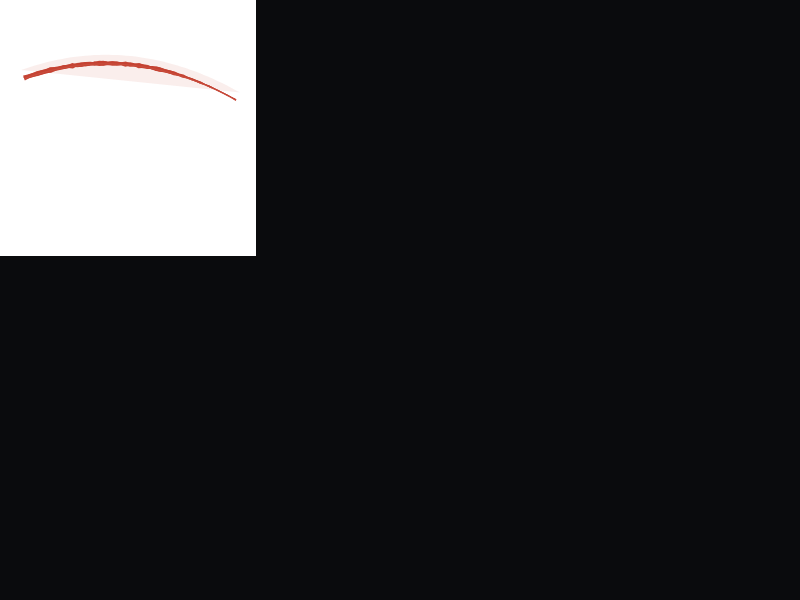
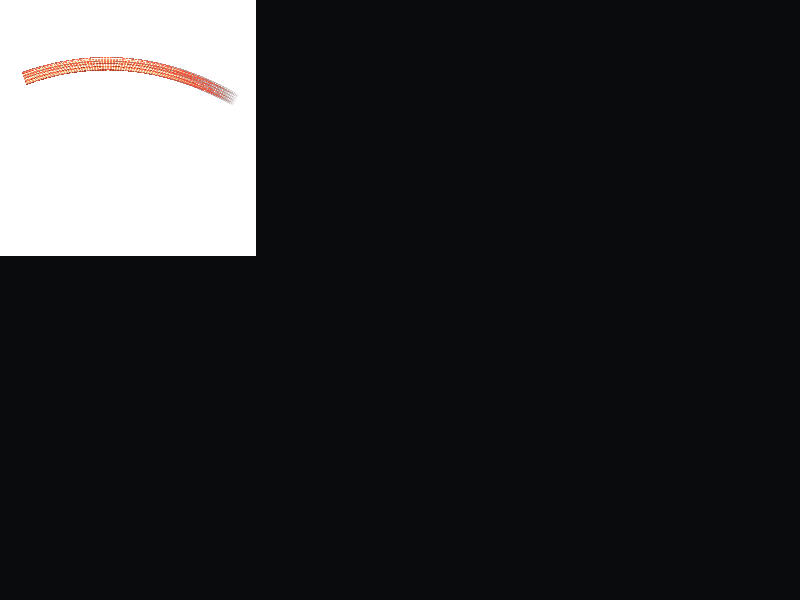
fix(oil): make the impasto path actually render strokes
The dli/paint-style oil backend shipped in 88ec93c never executed in
production — every stroke silently fell back to the bristle renderer,
and even the probe stroke deposited a 104px thread instead of a full
brush mark. Four defects, all reproduced by execution before fixing:

- renderOilImpasto referenced `alpha` outside its scope (ReferenceError
  swallowed by try/catch -> {ok:false} on every call); stroke alpha now
  resolves from options/shape/params with clamping, and the bristle RNG
  comes from the caller's seeded rngFor.
- depositStroke stacked all 12 bristles on the centerline: br.center
  was never used, so a 212x13px stroke painted a ~1px thread. Each
  bristle now owns its lateral slice of the cross-section.
- Fixed 49-sample bezier walk left ~4.4px gaps -> dashed strokes. The
  path is now densified by arc length to ~0.8px stamp spacing.
- Shading ran a full-canvas Sobel/normals/shade + putImageData per
  stroke (40k strokes => 100% CPU, browser crash). Shading is now
  cropped to the stroke's bbox; coverage lives in the pigment alpha
  channel (with max(RGB) fallback) so dark paint stays opaque and the
  composite never erases earlier strokes.

Verification: oil-impasto 24/0, engine 177/0, full 21-suite battery
exit=0, brush-maker + brush-path probes PASS, single-stroke probe shows
a continuous bristled band with dry taper, and the full frog render
through the real app path (40,064 strokes, liveMeanLum 174, inkPct 54)
now produces a coherent oil painting.

Changed region(s): [[0.0312, 0.09, 0.3125, 0.18]]

diff --git a/js/engine/oil-impasto.js b/js/engine/oil-impasto.js
@@ -19,6 +19,10 @@
 
 import { rngFor, hexRgb, rgbToHex } from '../styles/base.js';
 
+// Module-level scratch canvas reused across strokes (see renderOilImpasto).
+let _scratchCanvas = null;
+let _scratchCtx = null;
+
 /**
  * Deterministic parameters (matching dli/paint paint.js constants)
  */
@@ -178,20 +182,32 @@ export function shadePigment(pigment, normals, w, h, opts = {}) {
       
       const specular = (D * G * F) * specularScale;
       
-      // Get pigment color (0..255)
+      // Coverage of this pixel: the deposit's own coverage channel (pigment
+      // alpha, written by depositStroke) OR the max RGB channel — max() of
+      // both so legacy callers that fill RGB only still composite correctly,
+      // and near-black paint (max(RGB) ≈ 0) stays opaque via its coverage.
+      const cov = Math.max(pigment[pi + 3], pigment[pi], pigment[pi + 1], pigment[pi + 2]);
+      if (cov === 0) {
+        // No paint here — this pixel is NOT part of the stroke and must stay
+        // fully transparent, or the opaque offscreen rect erases every
+        // previously painted stroke when composited.
+        out[pi + 3] = 0;
+        continue;
+      }
+
       const r = pigment[pi] / 255;
       const g = pigment[pi + 1] / 255;
       const b = pigment[pi + 2] / 255;
-      
+
       // Final color
       const fr = Math.min(1, r * diffuse + specular);
       const fg = Math.min(1, g * diffuse + specular);
       const fb = Math.min(1, b * diffuse + specular);
-      
+
       out[pi] = Math.round(fr * 255);
       out[pi + 1] = Math.round(fg * 255);
       out[pi + 2] = Math.round(fb * 255);
-      out[pi + 3] = 255;
+      out[pi + 3] = cov;
     }
   }
   
@@ -251,17 +267,40 @@ export function depositStroke(surface, shape, R, opts = {}) {
   const progress = opts.progress !== undefined ? opts.progress : 1;
   const alpha = shape.alpha ?? a[10] ?? opts.alpha ?? 1;
 
-  // Sample points along the quadratic bezier, only up to `progress`
+  // Sample points along the quadratic bezier, only up to `progress`.
+  // Coarse pass first (49 points), then DENSIFY by arc length so stamp
+  // spacing is ~0.8px — a fixed 49-sample walk left ~4.4px gaps that rendered
+  // every stroke as a dashed string of dots.
   const P = [];
-  const N = 48;
-  const maxS = Math.max(0, Math.min(1, progress));
-  for (let i = 0; i <= N; i++) {
-    const s = (i / N) * maxS;
-    const v = 1 - s;
-    P.push([
-      v * v * a[0] + 2 * v * s * a[2] + s * s * a[4],
-      v * v * a[1] + 2 * v * s * a[3] + s * s * a[5]
-    ]);
+  {
+    const N = 48;
+    const maxS = Math.max(0, Math.min(1, progress));
+    const coarse = [];
+    for (let i = 0; i <= N; i++) {
+      const s = (i / N) * maxS;
+      const v = 1 - s;
+      coarse.push([
+        v * v * a[0] + 2 * v * s * a[2] + s * s * a[4],
+        v * v * a[1] + 2 * v * s * a[3] + s * s * a[5]
+      ]);
+    }
+    // Total polyline length → per-segment subdivision count.
+    let total = 0;
+    for (let i = 1; i < coarse.length; i++) {
+      total += Math.hypot(coarse[i][0] - coarse[i - 1][0], coarse[i][1] - coarse[i - 1][1]);
+    }
+    const STEP = 0.8; // px between stamps
+    P.push(coarse[0]);
+    for (let i = 1; i < coarse.length; i++) {
+      const [ax, ay] = coarse[i - 1];
+      const [bx, by] = coarse[i];
+      const seg = Math.hypot(bx - ax, by - ay);
+      const n = Math.max(1, Math.round(seg / STEP));
+      for (let k = 1; k <= n; k++) {
+        P.push([ax + (bx - ax) * k / n, ay + (by - ay) * k / n]);
+      }
+    }
+    void total;
   }
   
   // Bristle colour endpoints must be hex strings ('#rrggbb'); params may
@@ -272,10 +311,13 @@ export function depositStroke(surface, shape, R, opts = {}) {
   // Create bristle profile
   const bristles = createBristleProfile(strokeW / 2, R);
   
-  // For each bristle, deposit along the path
+  // For each bristle, deposit along the path. Each bristle occupies its own
+  // lateral SLICE of the brush cross-section (br.center spans 0..1 across the
+  // stroke width) — without this spread every bristle stacks on the
+  // centerline and the "stroke" deposits as a 1px thread (measured: 104px
+  // footprint for a 212×13px stroke).
   for (const br of bristles) {
-    const brW = strokeW * (br.hi - br.lo);
-    const halfBrW = brW / 2;
+    const brW = Math.max(0.8, strokeW * (br.hi - br.lo));
     
     for (let j = 0; j < P.length; j++) {
       const s = j / Math.max(1, P.length - 1);
@@ -297,14 +339,16 @@ export function depositStroke(surface, shape, R, opts = {}) {
         ? Math.pow(1 - (s - dryEnd) / (1 - dryEnd), dryTaper)
         : 1;
       
-      // Bristle-specific width with variation
-      const hw = halfBrW * Math.max(0.3, dryFactor) * br.heightMul;
+      // Lateral centre of THIS bristle across the brush (px), plus its
+      // per-bristle jitter; the bristle's own width tapers as it runs dry.
+      const centreOffset = (br.center - 0.5) * strokeW + br.offset * brW;
+      const liveW = Math.max(0.4, brW * Math.max(0.3, dryFactor));
       
       // Deposit along the bristle width (multiple samples across)
-      const samplesAcross = Math.max(3, Math.ceil(brW / 2));
+      const samplesAcross = Math.max(2, Math.ceil(liveW / 1.2));
       for (let k = 0; k < samplesAcross; k++) {
         const t = (k + 0.5) / samplesAcross;
-        const offset = (t - 0.5) * 2 * hw + br.offset * hw;
+        const offset = centreOffset + (t - 0.5) * liveW;
         
         const ix = Math.round(px + nx * offset);
         const iy = Math.round(py + ny * offset);
@@ -329,11 +373,19 @@ export function depositStroke(surface, shape, R, opts = {}) {
         const tg = Math.max(0, Math.min(255, cg + tone * 255));
         const tb = Math.max(0, Math.min(255, cb + tone * 255));
         
-        // Deposit pigment (additive, clamped)
-        const pigmentMul = br.pigmentMul * dryFactor * alpha;
+        // Deposit pigment (additive, clamped). Alpha is NOT folded in here —
+        // it rides on the composite's globalAlpha, so a stroke's opacity is
+        // uniform rather than baked per-sample.
+        const pigmentMul = br.pigmentMul * dryFactor;
         pigment[pIdx] = Math.min(255, pigment[pIdx] + tr * pigmentMul);
         pigment[pIdx + 1] = Math.min(255, pigment[pIdx + 1] + tg * pigmentMul);
         pigment[pIdx + 2] = Math.min(255, pigment[pIdx + 2] + tb * pigmentMul);
+        // Coverage lives in the pigment buffer's alpha channel (RGB deposit
+        // never touches it): max of this pixel's paint load, clamped 0..255.
+        // Dark pigments (near-black oil) then stay opaque — max(RGB) would
+        // read them as empty.
+        const load = Math.max(0, Math.min(1, pigmentMul)) * 255;
+        if (load > pigment[pIdx + 3]) pigment[pIdx + 3] = load;
         
         // Deposit height (additive, clamped to HEIGHT_SCALE)
         const heightMul = br.heightMul * dryFactor * alpha;
@@ -385,78 +437,137 @@ export function renderOilImpasto(ctx, shape, options = {}) {
     if (shape.type !== 'S') {
       return { ok: false, reason: 'oil-impasto only supports stroke type S' };
     }
-    
+
+    const a = shape.params;
     const canvas = ctx.canvas;
-    const w = canvas.width;
-    const h = canvas.height;
-    
-    // Create or reuse surface
+    const W = canvas.width;
+    const H = canvas.height;
+
+    // Per-stroke coverage mask sized to the FULL canvas; cropped surfaces
+    // would clip the stroke's soft edges when the deposit lands on the pad.
+    // Deposit + height stay full-canvas-cheap (typed-array writes); only the
+    // expensive shading is cropped to the stroke's bbox (see below).
     let surface = options.surface;
-    const ownsSurface = !surface;
-    
-    if (ownsSurface) {
-      // New surface - caller must reset between strokes if they want isolation
-      surface = {
-        width: w,
-        height: h,
-        pigment: new Uint8ClampedArray(w * h * 4),
-        heightField: new Float32Array(w * h),
-      };
+    if (!surface) {
+      surface = createSurface(W, H);
     }
-    
-    const R = rngFor(shape.seed || shape.params.slice(0, 6));
-    
-    // Deposit the stroke
-    depositStroke(surface, shape, R, options);
-    
-    // Soften height for smoother normals
-    const softHeight = softenHeight(surface.heightField, w, h, 1);
-    
-    // Compute normals
-    const { gx, gy } = computeSobel(softHeight, w, h);
-    const normals = computeNormals(gx, gy, w, h, DEFAULTS.NORMAL_SCALE);
-    
-    // Shade the pigment
-    const shaded = shadePigment(surface.pigment, normals, w, h, {
+
+    // Bristle RNG: the caller's seeded RNG when provided, else a fresh one
+    // from the shape's own seed. Never Math.random.
+    const R = options.seed instanceof Function
+      ? options.seed
+      : rngFor(shape.seed || shape.params.slice(0, 6));
+
+    // Stroke colours: oil.js passes c0/c1 hex in options; shapes may also
+    // carry hex strings or [r,g,b] arrays in params[8]/[9]. Normalise
+    // everything to hex; fall back to a mid-grey when nothing is usable
+    // (undefined params caused "Cannot read 'slice'" crashes before).
+    const toHex = (v, fb) => {
+      if (typeof v === 'string' && /^#[0-9a-fA-F]{6}$/.test(v)) return v;
+      if (Array.isArray(v) && v.length >= 3 && v.every((c) => Number.isFinite(c))) {
+        return rgbToHex(v);
+      }
+      return fb;
+    };
+    const colA = toHex(options.color0 ?? a[8], '#808080');
+    const colB = toHex(options.color1 ?? a[9], colA);
+    a[8] = colA;
+    a[9] = colB;
+
+    // Stroke alpha: explicit option > shape alpha > params[10] > 1.
+    const alpha = Number.isFinite(options.alpha)
+      ? Math.max(0, Math.min(1, options.alpha))
+      : Math.max(0, Math.min(1, shape.alpha ?? a[10] ?? 1));
+
+    // Deposit the stroke (pigment + height + coverage in surface buffers)
+    depositStroke(surface, shape, R, { ...options, alpha: 1 });
+
+    // ── Bbox-cropped shading ─────────────────────────────────────────────
+    // Compute the stroke's bounding box from the bezier path ± brush radius:
+    // shading/Sobel/normals/putImageData then work on a small crop instead of
+    // the full canvas (a 40k-stroke painting previously allocated + shaded a
+    // full 640×668 buffer per stroke — 100% CPU + browser crash).
+    const sw = Math.max(2, a[6]);
+    const strokeBBox = (params, halfWidth) => {
+      let x0 = Infinity, y0 = Infinity, x1 = -Infinity, y1 = -Infinity;
+      for (let i = 0; i < 49; i++) {
+        const s = i / 48;
+        const v = 1 - s;
+        const x = v * v * params[0] + 2 * v * s * params[2] + s * s * params[4];
+        const y = v * v * params[1] + 2 * v * s * params[3] + s * s * params[5];
+        x0 = Math.min(x0, x); y0 = Math.min(y0, y);
+        x1 = strokeBBox_x1(x1, x); y1 = Math.max(y1, y);
+      }
+      return [x0 - halfWidth, y0 - halfWidth, x1 + halfWidth, y1 + halfWidth];
+    };
+    const strokeBBox_x1 = (cur, x) => Math.max(cur, x);
+    const [bx0, by0, bx1, by1] = strokeBBox(a, sw);
+    const cx0 = Math.max(0, Math.floor(bx0) - 2);
+    const cy0 = Math.max(0, Math.floor(by0) - 2);
+    const cx1 = Math.min(W - 1, Math.ceil(bx1) + 2);
+    const cy1 = Math.min(H - 1, Math.ceil(by1) + 2);
+    const cw = cx1 - cx0 + 1;
+    const ch = cy1 - cy0 + 1;
+    if (cw <= 0 || ch <= 0) {
+      return { ok: false, reason: 'oil-impasto: empty stroke bbox' };
+    }
+
+    // Crop the pigment + height fields into small working buffers.
+    const pigmentCrop = new Uint8ClampedArray(cw * ch * 4);
+    const heightCrop = new Float32Array(cw * ch);
+    for (let y = 0; y < ch; y++) {
+      const srcRow = (cy0 + y) * W + cx0;
+      pigmentCrop.set(surface.pigment.subarray(srcRow * 4, srcRow * 4 + cw * 4), y * cw * 4);
+      heightCrop.set(surface.heightField.subarray(srcRow, srcRow + cw), y * cw);
+    }
+
+    // Soften + normals + shade on the crop only.
+    const softHeight = softenHeight(heightCrop, cw, ch, 1);
+    const { gx, gy } = computeSobel(softHeight, cw, ch);
+    const normals = computeNormals(gx, gy, cw, ch, DEFAULTS.NORMAL_SCALE);
+    const shaded = shadePigment(pigmentCrop, normals, cw, ch, {
       roughness: DEFAULTS.ROUGHNESS,
       F0: DEFAULTS.F0,
       specularScale: DEFAULTS.SPECULAR_SCALE,
       diffuseScale: DEFAULTS.DIFFUSE_SCALE,
       lightDirection: DEFAULTS.LIGHT_DIRECTION,
     });
-    
-    // Draw to offscreen canvas first (transparent background)
-    const offscreenCanvas = new OffscreenCanvas(w, h);
-    const offscreenCtx = offscreenCanvas.getContext('2d');
-    offscreenCtx.clearRect(0, 0, w, h);
-    const imgData = new ImageData(shaded, w, h);
-    offscreenCtx.putImageData(imgData, 0, 0);
-    
-    // Then composite onto the main canvas with proper alpha
+
+    // Composite the shaded crop onto the main canvas. Per-pixel alpha (set in
+    // shadePigment) keeps pixels outside the stroke footprint transparent, so
+    // earlier strokes survive; globalAlpha carries the shape's own opacity.
+    if (!_scratchCanvas || _scratchCanvas.width < cw || _scratchCanvas.height < ch) {
+      _scratchCanvas = new OffscreenCanvas(cw, ch);
+      _scratchCtx = _scratchCanvas.getContext('2d');
+    }
+    _scratchCtx.clearRect(0, 0, cw, ch);
+    _scratchCtx.putImageData(new ImageData(shaded, cw, ch), 0, 0);
     ctx.save();
     ctx.globalAlpha = alpha;
-    ctx.drawImage(offscreenCanvas, 0, 0);
+    ctx.drawImage(_scratchCanvas, 0, 0, cw, ch, cx0, cy0, cw, ch);
     ctx.restore();
-    
-    // Stats
+
+    // Stats (over the crop — the only region the stroke touched)
     let pixelsPainted = 0;
     let minHeight = Infinity, maxHeight = -Infinity;
-    for (let i = 0; i < w * h; i++) {
-      if (surface.pigment[i * 4 + 3] > 0 || surface.pigment[i * 4] > 0 || surface.pigment[i * 4 + 1] > 0 || surface.pigment[i * 4 + 2] > 0) {
+    for (let i = 0; i < cw * ch; i++) {
+      const pi = i * 4;
+      if (pigmentCrop[pi + 3] > 0 || pigmentCrop[pi] > 0 || pigmentCrop[pi + 1] > 0 || pigmentCrop[pi + 2] > 0) {
         pixelsPainted++;
       }
-      if (surface.heightField[i] > 0) {
-        minHeight = Math.min(minHeight, surface.heightField[i]);
-        maxHeight = Math.max(maxHeight, surface.heightField[i]);
+      const hVal = heightCrop[i];
+      if (hVal > 0) {
+        minHeight = Math.min(minHeight, hVal);
+        maxHeight = Math.max(maxHeight, hVal);
       }
     }
-    
+
     return {
       ok: true,
       stats: {
         pixelsPainted,
         heightRange: maxHeight > -Infinity ? [minHeight, maxHeight] : [0, 0],
-        surface, // returned so caller can chain or reset
+        surface,
       },
     };
   } catch (e) {

diff --git a/tests/oil-impasto.test.js b/tests/oil-impasto.test.js
@@ -191,7 +191,7 @@ test('normals are always unit length', () => {
 
 // 3. Shading
 console.log('\nshadePigment:');
-test('shaded output has same dimensions and opaque alpha', () => {
+test('shaded output matches pigment footprint: covered pixels opaque, uncovered transparent', () => {
   const w = 16, h = 16;
   const pigment = makePigment(w, h, [200, 100, 50]);
   const hfield = makeRampHeight(w, h);
@@ -199,9 +199,29 @@ test('shaded output has same dimensions and opaque alpha', () => {
   const normals = computeNormals(gx, gy, w, h, DEFAULTS.NORMAL_SCALE);
   const shaded = shadePigment(pigment, normals, w, h);
   assert(shaded.length === w * h * 4, 'output length wrong');
-  for (let i = 3; i < shaded.length; i += 4) {
-    assert(shaded[i] === 255, `alpha not 255 at ${i}`);
+  // Full-coverage pigment (makePigment writes alpha=255) -> every pixel
+  // opaque: coverage = max(pigment alpha, max RGB channel).
+  for (let i = 0; i < w * h; i++) {
+    const pi = i * 4;
+    const expect = Math.max(pigment[pi + 3], pigment[pi], pigment[pi + 1], pigment[pi + 2]);
+    assert(shaded[pi + 3] === expect, `alpha ${shaded[pi + 3]} != coverage ${expect} at ${i}`);
   }
+  // Partial footprint: a pixel with NO pigment must stay transparent so the
+  // stroke composite never erases previously painted strokes.
+  const partial = new Uint8ClampedArray(w * h * 4);
+  partial[0] = 200; partial[1] = 100; partial[2] = 50; // only pixel 0 has pigment (alpha 0)
+  const shadedPartial = shadePigment(partial, normals, w, h);
+  // RGB-only buffer: coverage falls back to max(RGB) = 200.
+  assert(shadedPartial[3] === 200, 'covered pixel should carry coverage alpha');
+  for (let i = 1; i < w * h; i++) {
+    assert(shadedPartial[i * 4 + 3] === 0, `uncovered pixel ${i} must be alpha 0`);
+  }
+  // depositStroke-written coverage channel: dark paint (near-black RGB) must
+  // stay opaque via its coverage alpha, not read as empty by max(RGB).
+  const dark = new Uint8ClampedArray(w * h * 4);
+  dark[0] = 10; dark[1] = 8; dark[2] = 6; dark[3] = 255; // near-black, fully covered
+  const shadedDark = shadePigment(dark, normals, w, h);
+  assert(shadedDark[3] === 255, 'dark covered pixel must stay opaque');
 });
 
 test('shading changes pixel values from flat color', () => {
